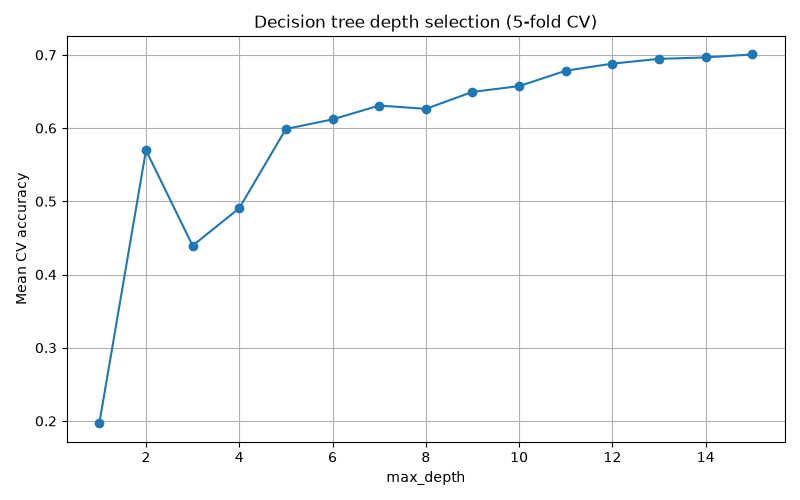
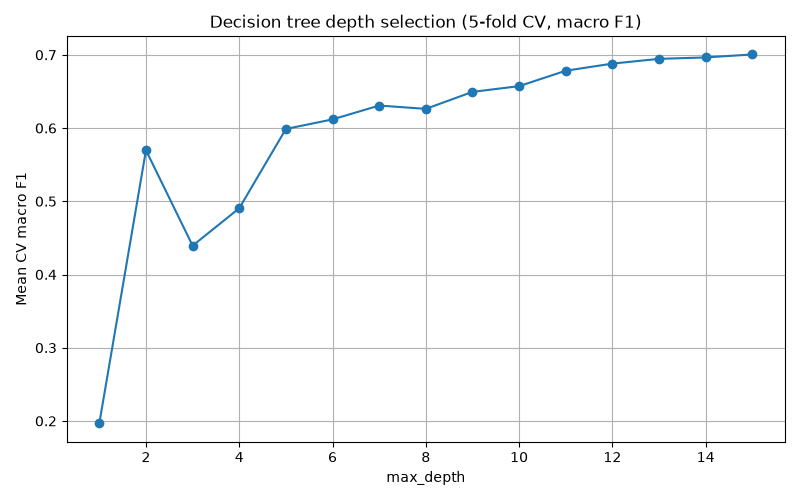
Export results to markdown and fix depth plot labels

Changed region(s): [[0.25, 0.03, 0.8125, 0.06], [0.0, 0.33, 0.0312, 0.63]]

diff --git a/main.py b/main.py
@@ -129,12 +129,12 @@ grid_preds = grid.best_estimator_.predict(X_test)
 print(f"Grid search test accuracy: {accuracy_score(y_test, grid_preds):.4f}")
 print(f"Grid search test macro F1: {f1_score(y_test, grid_preds, average='macro'):.4f}")
 
-# Plot CV accuracy vs depth
+# Plot CV macro F1 vs depth
 plt.figure(figsize=(8, 5))
 plt.plot(list(depths), cv_scores, marker="o")
 plt.xlabel("max_depth")
-plt.ylabel("Mean CV accuracy")
-plt.title("Decision tree depth selection (5-fold CV)")
+plt.ylabel("Mean CV macro F1")
+plt.title("Decision tree depth selection (5-fold CV, macro F1)")
 plt.grid(True)
 plt.tight_layout()
 plt.savefig("cv_accuracy.png")
@@ -257,3 +257,34 @@ for tree, title, filename in [
 # (plt.show() would keep the script running until every window is closed)
 plt.close("all")
 print("Plots saved: cv_accuracy.png, decision_tree.png, tree_set1.png, tree_set2.png")
+
+# ======================================
+# EXPORT RESULTS FOR THE README
+# ======================================
+table = results_df.copy()
+for col in ["Accuracy", "Accuracy Std Dev", "Macro F1", "Macro F1 Std Dev"]:
+    table[col] = table[col].round(4)
+
+with open("results.md", "w") as f:
+    f.write("## Results\n\n")
+    f.write(f"Majority-class baseline accuracy: **{baseline:.4f}**\n\n")
+
+    f.write("### Model selection\n\n")
+    f.write(f"- Best `max_depth` (5-fold CV): **{best_depth}**\n")
+    f.write(f"- Test accuracy / macro F1: **{accuracy_score(y_test, test_preds):.4f}** / "
+            f"**{f1_score(y_test, test_preds, average='macro'):.4f}**\n")
+    f.write(f"- Best grid search parameters: **{grid.best_params_}**\n")
+    f.write(f"- Grid search test accuracy / macro F1: **{accuracy_score(y_test, grid_preds):.4f}** / "
+            f"**{f1_score(y_test, grid_preds, average='macro'):.4f}**\n\n")
+
+    f.write("### Parameter set comparison\n\n")
+    f.write(table.to_markdown(index=False))  # needs the tabulate package
+    f.write("\n\n")
+
+    f.write("### Charts\n\n")
+    f.write("![Depth selection](cv_accuracy.png)\n\n")
+    f.write("![Decision tree](decision_tree.png)\n\n")
+    f.write("![Set 1 tree](tree_set1.png)\n\n")
+    f.write("![Set 2 tree](tree_set2.png)\n")
+
+print("Results written to results.md")
